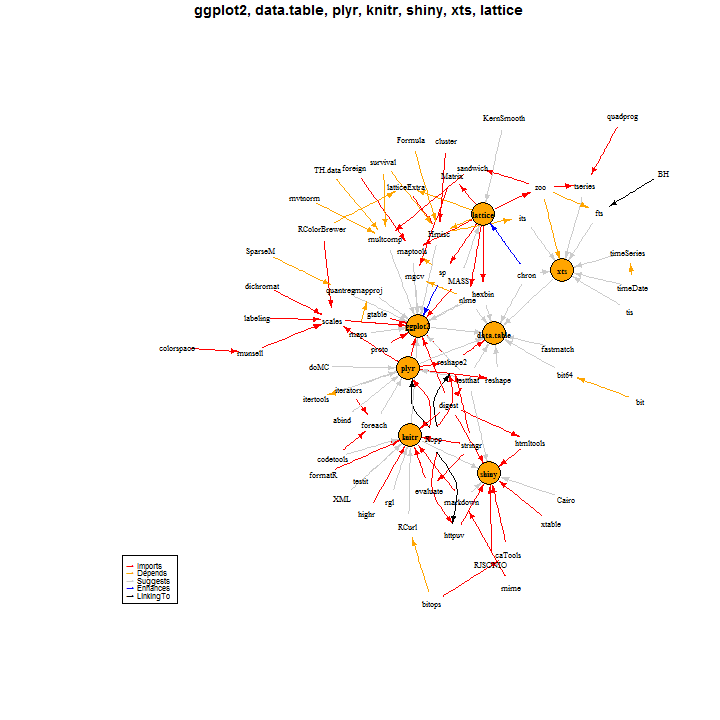
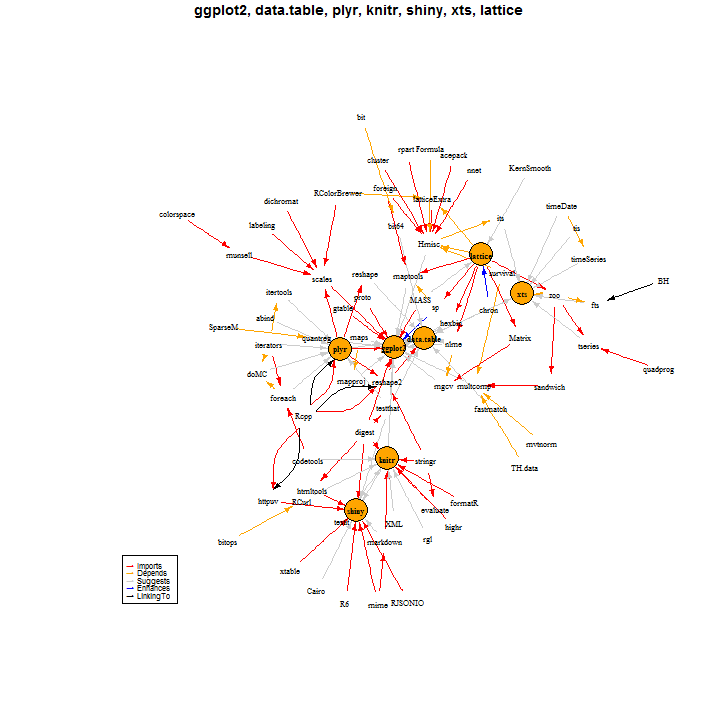
version 0.1-1

diff --git a/inst/doc/miniCRAN.html b/inst/doc/miniCRAN.html
@@ -220,18 +220,23 @@ pkgList
 
 <pre><code class="r"># Create temporary folder for miniCRAN
 dir.create(pth &lt;- file.path(tempdir(), &quot;miniCRAN&quot;))
+</code></pre>
 
-# Make repo for source and win.binary
+<pre><code>## Warning: &#39;C:\Users\ANDRIE~1\AppData\Local\Temp\RtmpM9USL4\miniCRAN&#39;
+## already exists
+</code></pre>
+
+<pre><code class="r"># Make repo for source and win.binary
 makeRepo(pkgList, path=pth, repos=revolution, type=&quot;source&quot;)
 </code></pre>
 
-<pre><code>## Created new folder: C:\Users\ANDRIE~1\AppData\Local\Temp\Rtmp2FZF00/miniCRAN/src/contrib
+<pre><code>## Created new folder: C:\Users\ANDRIE~1\AppData\Local\Temp\RtmpM9USL4/miniCRAN/src/contrib
 </code></pre>
 
 <pre><code class="r">makeRepo(pkgList, path=pth, repos=revolution, type=&quot;win.binary&quot;)
 </code></pre>
 
-<pre><code>## Created new folder: C:\Users\ANDRIE~1\AppData\Local\Temp\Rtmp2FZF00/miniCRAN/bin/windows/contrib/3.0
+<pre><code>## Created new folder: C:\Users\ANDRIE~1\AppData\Local\Temp\RtmpM9USL4/miniCRAN/bin/windows/contrib/3.0
 </code></pre>
 
 <p>Investigate the repository file structure</p>
@@ -332,20 +337,21 @@ pkgDep(tags, suggests = TRUE, enhances=FALSE)
 ## [13] &quot;MASS&quot;         &quot;Rcpp&quot;         &quot;stringr&quot;      &quot;RColorBrewer&quot;
 ## [17] &quot;dichromat&quot;    &quot;munsell&quot;      &quot;labeling&quot;     &quot;colorspace&quot;  
 ## [21] &quot;evaluate&quot;     &quot;formatR&quot;      &quot;highr&quot;        &quot;markdown&quot;    
-## [25] &quot;mime&quot;         &quot;httpuv&quot;       &quot;caTools&quot;      &quot;RJSONIO&quot;     
-## [29] &quot;xtable&quot;       &quot;htmltools&quot;    &quot;bitops&quot;       &quot;zoo&quot;         
-## [33] &quot;SparseM&quot;      &quot;survival&quot;     &quot;Formula&quot;      &quot;latticeExtra&quot;
-## [37] &quot;cluster&quot;      &quot;maps&quot;         &quot;sp&quot;           &quot;foreign&quot;     
-## [41] &quot;mvtnorm&quot;      &quot;TH.data&quot;      &quot;sandwich&quot;     &quot;nlme&quot;        
-## [45] &quot;Matrix&quot;       &quot;bit&quot;          &quot;codetools&quot;    &quot;iterators&quot;   
-## [49] &quot;timeDate&quot;     &quot;quadprog&quot;     &quot;Hmisc&quot;        &quot;BH&quot;          
-## [53] &quot;quantreg&quot;     &quot;mapproj&quot;      &quot;hexbin&quot;       &quot;maptools&quot;    
-## [57] &quot;multcomp&quot;     &quot;testthat&quot;     &quot;mgcv&quot;         &quot;chron&quot;       
-## [61] &quot;reshape&quot;      &quot;fastmatch&quot;    &quot;bit64&quot;        &quot;abind&quot;       
-## [65] &quot;foreach&quot;      &quot;doMC&quot;         &quot;itertools&quot;    &quot;testit&quot;      
-## [69] &quot;rgl&quot;          &quot;XML&quot;          &quot;RCurl&quot;        &quot;Cairo&quot;       
-## [73] &quot;timeSeries&quot;   &quot;tseries&quot;      &quot;its&quot;          &quot;fts&quot;         
-## [77] &quot;tis&quot;          &quot;KernSmooth&quot;
+## [25] &quot;mime&quot;         &quot;httpuv&quot;       &quot;RJSONIO&quot;      &quot;xtable&quot;      
+## [29] &quot;htmltools&quot;    &quot;R6&quot;           &quot;zoo&quot;          &quot;SparseM&quot;     
+## [33] &quot;survival&quot;     &quot;Formula&quot;      &quot;latticeExtra&quot; &quot;cluster&quot;     
+## [37] &quot;rpart&quot;        &quot;nnet&quot;         &quot;acepack&quot;      &quot;foreign&quot;     
+## [41] &quot;maps&quot;         &quot;sp&quot;           &quot;mvtnorm&quot;      &quot;TH.data&quot;     
+## [45] &quot;sandwich&quot;     &quot;nlme&quot;         &quot;Matrix&quot;       &quot;bit&quot;         
+## [49] &quot;codetools&quot;    &quot;iterators&quot;    &quot;foreach&quot;      &quot;bitops&quot;      
+## [53] &quot;timeDate&quot;     &quot;quadprog&quot;     &quot;Hmisc&quot;        &quot;BH&quot;          
+## [57] &quot;quantreg&quot;     &quot;mapproj&quot;      &quot;hexbin&quot;       &quot;maptools&quot;    
+## [61] &quot;multcomp&quot;     &quot;testthat&quot;     &quot;mgcv&quot;         &quot;chron&quot;       
+## [65] &quot;reshape&quot;      &quot;fastmatch&quot;    &quot;bit64&quot;        &quot;abind&quot;       
+## [69] &quot;doMC&quot;         &quot;itertools&quot;    &quot;testit&quot;       &quot;rgl&quot;         
+## [73] &quot;XML&quot;          &quot;RCurl&quot;        &quot;Cairo&quot;        &quot;timeSeries&quot;  
+## [77] &quot;tseries&quot;      &quot;its&quot;          &quot;fts&quot;          &quot;tis&quot;         
+## [81] &quot;KernSmooth&quot;
 </code></pre>
 
 <pre><code class="r">dg &lt;- makeDepGraph(tags, enhances=TRUE)
@@ -353,7 +359,7 @@ set.seed(1)
 plot(dg, legendPosition = c(-1, -1), vertex.size=10, cex=0.7)
 </code></pre>
 
[2 lines of base64/hex data omitted]
 
 </body>
 
